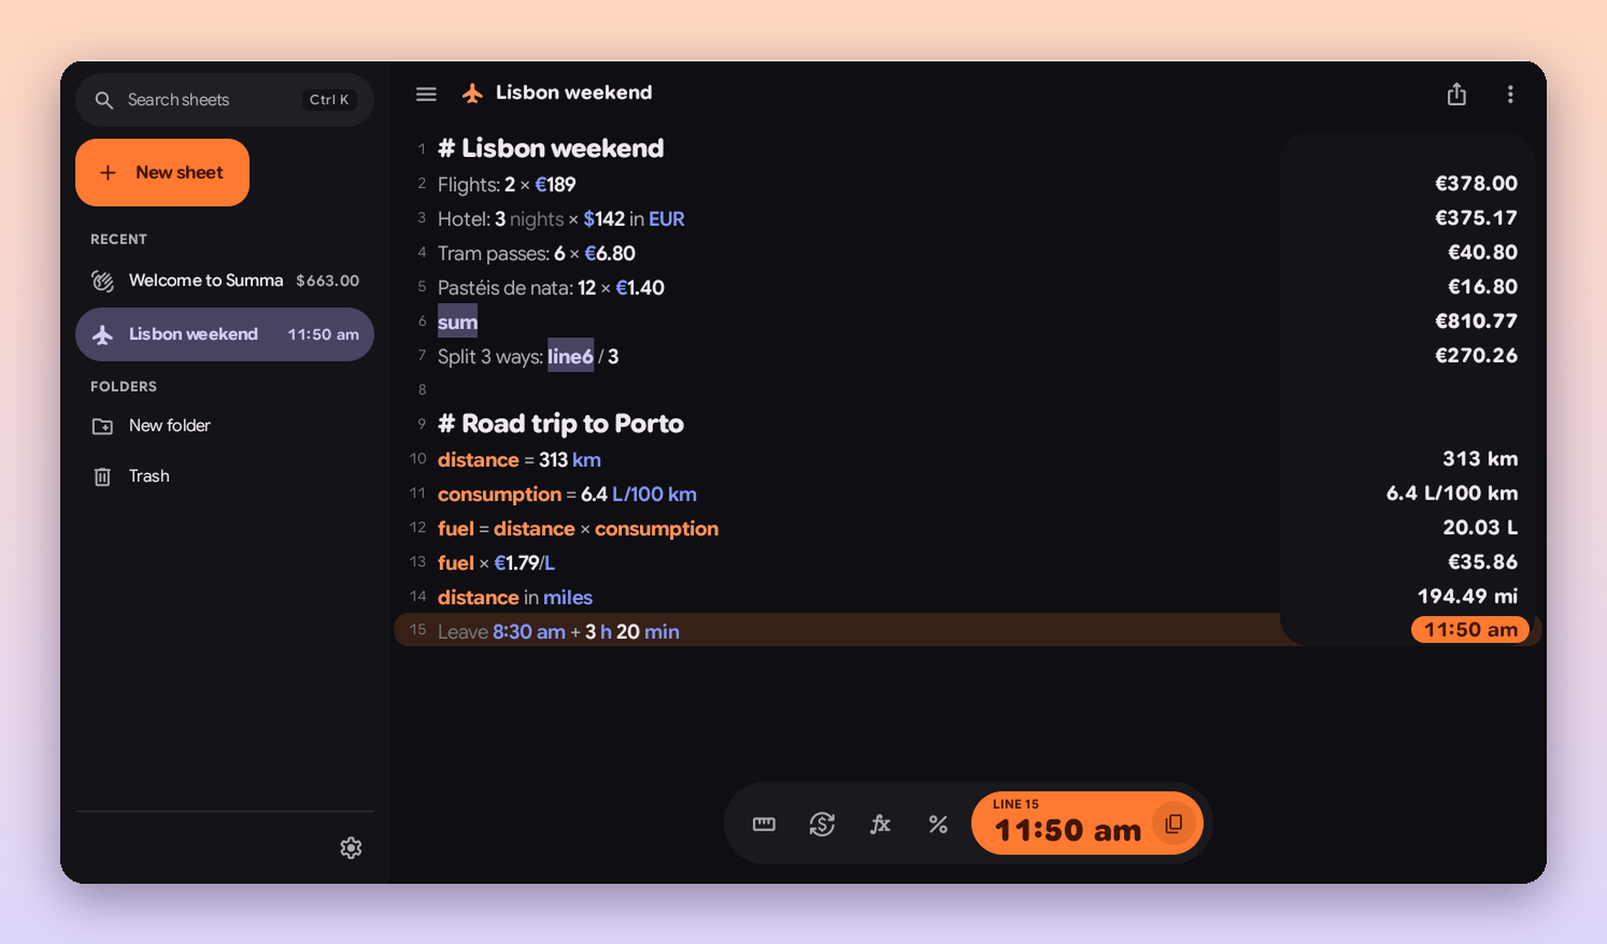
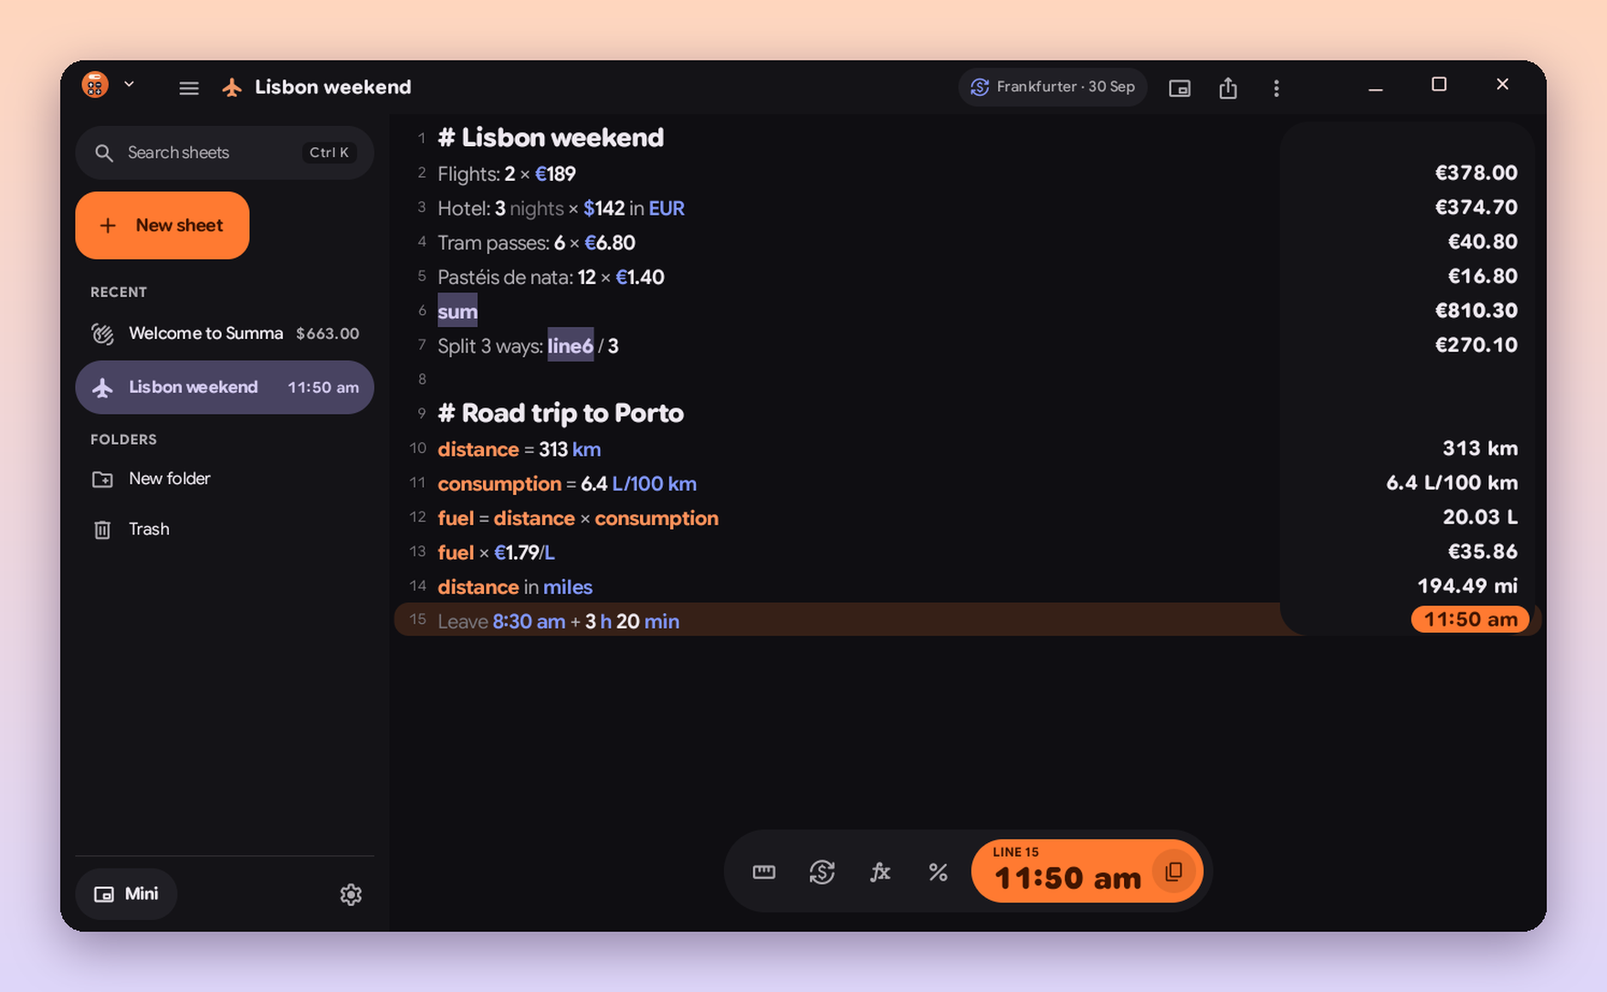
Summa 0.3: at home on the Googlebook
Caption-bar header that follows the system buttons across resizes, pinned
mini calculator, Calculate card, QS tile, launcher shortcuts, new windows,
drag-out answers, shortcut helper, phone keypad in its own row, Handoff.
Fixes answers keeping the old colour after a light/dark switch.

Claude-Session: https://claude.ai/code/session_01QrY79ELuyEqaLzb3gc6rtS

diff --git a/app/src/main/java/io/github/kuscher/summa/ui/MainActivity.kt b/app/src/main/java/io/github/kuscher/summa/ui/MainActivity.kt
@@ -119,11 +119,13 @@ import java.lang.ref.WeakReference
 class MainActivity : ComponentActivity() {
     /** The open sheet, for the debug hooks and window-level actions. */
     var session: Session? = null
+    lateinit var captionTracker: CaptionTracker
 
     override fun onCreate(savedInstanceState: Bundle?) {
         enableEdgeToEdge()
         super.onCreate(savedInstanceState)
         current = WeakReference(this)
+        captionTracker = CaptionTracker(this)
         val requested = sheetFromIntent(intent)
         if (Build.VERSION.SDK_INT >= 37) {
             try { setHandoffEnabled(true, HandoffActivityParams.Builder().build()) } catch (_: Throwable) {}
@@ -289,7 +291,7 @@ fun App(activity: MainActivity, requested: String?) {
                     },
             ) {
                 val wide = maxWidth >= 720.dp
-                val cap = rememberCaptionInsets()
+                val cap = rememberCaptionInsets(activity.captionTracker)
                 val meta = index.sheets.firstOrNull { it.id == id }
                 val sides = WindowInsets.safeDrawing.only(WindowInsetsSides.Horizontal + WindowInsetsSides.Bottom)
                 val topInsets = if (cap.present) WindowInsets(0) else WindowInsets.statusBars.union(WindowInsets.displayCutout).only(WindowInsetsSides.Top)
@@ -325,12 +327,15 @@ fun App(activity: MainActivity, requested: String?) {
                         BackHandler(enabled = !showList && screen == "sheet") { showList = true }
                         BackHandler(enabled = screen == "settings") { screen = "sheet" }
                         when {
-                            screen == "settings" -> SettingsScreen(onBack = { screen = "sheet" })
-                            showList || session == null -> LibraryScreen(app.library, index, id, search, searchFocus, ::open, ::newSheet, onSettings = { screen = "settings" })
+                            screen == "settings" -> Column { if (cap.present) Spacer(Modifier.height(cap.height)); SettingsScreen(onBack = { screen = "sheet" }) }
+                            showList || session == null -> Column { if (cap.present) Spacer(Modifier.height(cap.height)); LibraryScreen(app.library, index, id, search, searchFocus, ::open, ::newSheet, onSettings = { screen = "settings" }) }
                             else -> Column(Modifier.fillMaxSize()) {
-                                HeaderRow(cap, wideLayout = false) {
+                                // Narrow windows keep their header below the caption bar: the system's
+                                // own controls would leave no room for the title.
+                                if (cap.present) Spacer(Modifier.height(cap.height))
+                                HeaderRow(CaptionInsets(0.dp, 0.dp, 0.dp), wideLayout = false) {
                                     SheetHeader(session, meta, onBack = { showList = true }, onToggleSidebar = null, onSettings = { screen = "settings" },
-                                        onMessage = ::message, inCaption = cap.present, onNewWindow = null, onMini = null)
+                                        onMessage = ::message, inCaption = false, onNewWindow = null, onMini = null)
                                 }
                                 EditorPane(session, false, Modifier.weight(1f), onMessage = ::message)
                             }
@@ -395,11 +400,11 @@ fun RowScope.SheetHeader(
     }
     SymIcon(iconFor(meta?.title ?: ""), size = 19.sp, filled = true, tint = scheme.primary, modifier = Modifier.padding(start = 6.dp))
     Text(
-        meta?.title?.ifBlank { "Untitled" } ?: "Summa", Modifier.padding(start = 10.dp).weight(1f, fill = false),
+        meta?.title?.ifBlank { "Untitled" } ?: "Summa", Modifier.padding(start = 10.dp).weight(1f),
         style = MaterialTheme.typography.titleMedium.copy(fontWeight = FontWeight(700)), maxLines = 1, overflow = TextOverflow.Ellipsis,
     )
-    Spacer(Modifier.weight(1f))
     if (session == null) return
+    val narrow = onBack != null
     val ev = session.evaluated
     if (ev?.result?.anyRateDependent == true) {
         val r by app.rates.rates.collectAsState()
@@ -411,7 +416,7 @@ fun RowScope.SheetHeader(
             verticalAlignment = Alignment.CenterVertically,
         ) {
             SymIcon(Sym.CURRENCY_EXCHANGE, size = 16.sp, tint = scheme.tertiary)
-            Text("${if (r.source.contains("Central")) "ECB" else r.source.ifBlank { "Rates" }} · ${prettyDate(r.asOf)}",
+            if (!narrow) Text("${if (r.source.contains("Central")) "ECB" else r.source.ifBlank { "Rates" }} · ${prettyDate(r.asOf)}",
                 Modifier.padding(start = 6.dp), style = MaterialTheme.typography.labelMedium, color = scheme.onSurfaceVariant)
         }
     }
@@ -521,6 +526,7 @@ fun EditorPane(session: Session, wide: Boolean, modifier: Modifier, onMessage: (
     val b = lineOf(starts, if (sel.collapsed) sel.min else maxOf(sel.min, sel.max - 1))
     var statIdx by remember { mutableIntStateOf(0) }
     var keypad by rememberSaveable { mutableStateOf(false) }
+    DebugHooks.keypad = { keypad = !keypad }
     val ev = session.evaluated
     val display = run {
         if (ev == null) Display("Line ${a + 1}", null, false)
@@ -535,7 +541,7 @@ fun EditorPane(session: Session, wide: Boolean, modifier: Modifier, onMessage: (
         Box(Modifier.weight(1f).fillMaxWidth().let { if (keypad) it else it.imePadding() }) {
             SheetEditor(
                 session, settings, activeLine = a, scroll = scroll, compact = !wide || mini,
-                contentPadding = PaddingValues(top = 6.dp, bottom = if (mini) 76.dp else 120.dp),
+                contentPadding = PaddingValues(top = 6.dp, bottom = if (mini) 76.dp else if (keypad) 24.dp else 120.dp),
                 onInsert = { insertAtCursor(session, it) }, onMessage = onMessage, keypadOpen = keypad,
             )
             if (mini) {
@@ -544,13 +550,20 @@ fun EditorPane(session: Session, wide: Boolean, modifier: Modifier, onMessage: (
                     onCopy = { v -> copyToClipboard(app, v); onMessage("Copied $v") },
                     modifier = Modifier.align(Alignment.BottomEnd).padding(end = 10.dp, bottom = 12.dp),
                 )
-            } else {
+            } else if (!keypad) {
                 SheetToolbar(
                     display, onInsert = { insertAtCursor(session, it) }, onCycle = { statIdx++ }, onMessage = onMessage,
-                    keypadOpen = keypad, onKeypad = if (!wide) ({ keypad = !keypad }) else null,
+                    keypadOpen = keypad, onKeypad = if (!wide) ({ keypad = !keypad }) else null, compact = !wide,
                     modifier = Modifier.align(Alignment.BottomCenter).padding(bottom = 16.dp),
                 )
             }
+        }
+        // With the keypad open the toolbar gets its own row, so it never covers the line being typed.
+        if (keypad && !wide && !mini) Box(Modifier.fillMaxWidth().background(MaterialTheme.colorScheme.surfaceContainer).padding(top = 8.dp), contentAlignment = Alignment.Center) {
+            SheetToolbar(
+                display, onInsert = { insertAtCursor(session, it) }, onCycle = { statIdx++ }, onMessage = onMessage,
+                keypadOpen = true, onKeypad = { keypad = false }, compact = true,
+            )
         }
         if (keypad && !wide && !mini) Keypad(
             onText = { insertAtCursor(session, it) }, onBackspace = { backspace(session) },
@@ -590,4 +603,5 @@ object DebugHooks {
     var newSheet: () -> Unit = {}
     var screen: (String) -> Unit = {}
     var focus: () -> Unit = {}
+    var keypad: () -> Unit = {}
 }

diff --git a/app/src/main/java/io/github/kuscher/summa/ui/editor/Toolbar.kt b/app/src/main/java/io/github/kuscher/summa/ui/editor/Toolbar.kt
@@ -86,6 +86,7 @@ fun SheetToolbar(
     keypadOpen: Boolean,
     onKeypad: (() -> Unit)?,
     modifier: Modifier = Modifier,
+    compact: Boolean = false,
 ) {
     val context = LocalContext.current
     HorizontalFloatingToolbar(
@@ -94,7 +95,7 @@ fun SheetToolbar(
         colors = FloatingToolbarDefaults.standardFloatingToolbarColors(),
         contentPadding = FloatingToolbarDefaults.ContentPadding,
         trailingContent = {
-            DisplayPill(display, onCycle, onCopy = { v -> copyToClipboard(context, v); onMessage("Copied $v") })
+            DisplayPill(display, onCycle, onCopy = { v -> copyToClipboard(context, v); onMessage("Copied $v") }, big = !compact)
         },
     ) {
         if (onKeypad != null) ToolButton(Sym.DIALPAD, "Keypad", selected = keypadOpen, onClick = onKeypad)
@@ -107,7 +108,7 @@ fun SheetToolbar(
                 }
             }
         }
-        MenuButton(Sym.CURRENCY_EXCHANGE, "Insert a currency") { close ->
+        if (!compact) MenuButton(Sym.CURRENCY_EXCHANGE, "Insert a currency") { close ->
             for (cur in CURRENCIES) DropdownMenuItem(text = { Text(cur) }, onClick = { onInsert(cur); close() })
             DropdownMenuItem(text = { Text("in EUR") }, onClick = { onInsert(" in EUR"); close() })
             DropdownMenuItem(text = { Text("in USD") }, onClick = { onInsert(" in USD"); close() })
@@ -119,7 +120,7 @@ fun SheetToolbar(
                 onClick = { onInsert(f); close() },
             )
         }
-        ToolButton(Sym.PERCENT, "Percent") { onInsert("%") }
+        if (!compact) ToolButton(Sym.PERCENT, "Percent") { onInsert("%") }
     }
 }
 
@@ -178,9 +179,11 @@ fun DisplayPill(d: Display, onCycle: () -> Unit, onCopy: (String) -> Unit, modif
                     },
                     label = "display",
                 ) { v ->
-                    Text(
-                        v, maxLines = 1, overflow = TextOverflow.Ellipsis,
-                        style = TextStyle(fontFamily = SummaFonts.display, fontSize = if (big) 25.sp else 21.sp, fontWeight = FontWeight(820), fontFeatureSettings = "tnum"),
+                    // Long answers shrink to fit instead of being cut off.
+                    androidx.compose.foundation.text.BasicText(
+                        v, maxLines = 1,
+                        style = TextStyle(fontFamily = SummaFonts.display, fontWeight = FontWeight(820), fontFeatureSettings = "tnum", color = fg),
+                        autoSize = androidx.compose.foundation.text.TextAutoSize.StepBased(minFontSize = 13.sp, maxFontSize = if (big) 25.sp else 21.sp, stepSize = 1.sp),
                     )
                 }
             }

diff --git a/app/src/main/java/io/github/kuscher/summa/ui/Window.kt b/app/src/main/java/io/github/kuscher/summa/ui/Window.kt
@@ -39,19 +39,45 @@ data class CaptionInsets(val height: Dp, val start: Dp, val end: Dp) {
     val present: Boolean get() = height > 0.dp
 }
 
+/**
+ * Follows the caption bar's system-control rectangles through the window's own insets dispatch
+ * (so they're never stale after a resize). One per activity.
+ */
+class CaptionTracker(activity: Activity) {
+    /** Rectangles in window coordinates, and the window width they were measured against. */
+    val rects = androidx.compose.runtime.mutableStateOf<Pair<Int, List<android.graphics.Rect>>>(0 to emptyList())
+
+    init {
+        val decor = activity.window.decorView
+        decor.setOnApplyWindowInsetsListener { v, insets ->
+            if (Build.VERSION.SDK_INT >= 35) {
+                val r = insets.getBoundingRects(android.view.WindowInsets.Type.captionBar())
+                // The decor may not have its new size yet; measure against the insets' frame if we can.
+                v.post { rects.value = v.width to r }
+                rects.value = v.width to r
+            }
+            v.onApplyWindowInsets(insets)
+        }
+    }
+}
+
 @Composable
-fun rememberCaptionInsets(): CaptionInsets {
+fun rememberCaptionInsets(tracker: CaptionTracker? = null): CaptionInsets {
     val density = LocalDensity.current
     val top = WindowInsets.captionBar.getTop(density) // read so we recompose when it changes
+    val size = androidx.compose.ui.platform.LocalWindowInfo.current.containerSize
+    val tracked = tracker?.rects?.value
     if (top <= 0) return CaptionInsets(0.dp, 0.dp, 0.dp)
     val view = LocalView.current
-    val width = view.width
+    val width = if (size.width > 0) size.width else view.width
     var start = 0
     var end = 0
     if (Build.VERSION.SDK_INT >= 35) {
-        val rects = view.rootWindowInsets?.getBoundingRects(android.view.WindowInsets.Type.captionBar()).orEmpty()
+        val rects = tracked?.second ?: view.rootWindowInsets?.getBoundingRects(android.view.WindowInsets.Type.captionBar()).orEmpty()
         for (r in rects) {
-            if (r.left < width / 2) start = maxOf(start, r.right) else end = maxOf(end, width - r.left)
+            // Rectangles hug the left (app handle) or the right edge (window buttons).
+            val fromRight = width - r.left
+            if (r.left < width - r.right) start = maxOf(start, r.right) else end = maxOf(end, fromRight)
         }
     }
     return with(density) { CaptionInsets(top.toDp(), start.toDp(), end.toDp()) }

diff --git a/app/src/main/java/io/github/kuscher/summa/ui/MiniActivity.kt b/app/src/main/java/io/github/kuscher/summa/ui/MiniActivity.kt
@@ -65,11 +65,13 @@ class MiniActivity : ComponentActivity() {
     private var pinned by mutableStateOf(false)
     private var autoPinTried = false
     private var onMessage: (String) -> Unit = {}
+    private lateinit var captionTracker: CaptionTracker
 
     override fun onCreate(savedInstanceState: Bundle?) {
         enableEdgeToEdge()
         super.onCreate(savedInstanceState)
         instance = java.lang.ref.WeakReference(this)
+        captionTracker = CaptionTracker(this)
         val app = SummaApp.instance
         app.library.scratch()
         setContent {
@@ -86,7 +88,7 @@ class MiniActivity : ComponentActivity() {
                 Surface(color = MaterialTheme.colorScheme.surface) {
                     Box(Modifier.fillMaxSize().windowInsetsPadding(WindowInsets.safeDrawing.only(WindowInsetsSides.Horizontal + WindowInsetsSides.Bottom))) {
                         Column(Modifier.fillMaxSize()) {
-                            val cap = rememberCaptionInsets()
+                            val cap = rememberCaptionInsets(captionTracker)
                             HeaderRow(cap, wideLayout = true) {
                                 Row(Modifier.padding(start = 4.dp), verticalAlignment = Alignment.CenterVertically) {
                                     SymIcon(Sym.CALCULATE, size = 19.sp, filled = true, tint = MaterialTheme.colorScheme.primary)

diff --git a/app/src/main/java/io/github/kuscher/summa/ui/editor/SheetEditor.kt b/app/src/main/java/io/github/kuscher/summa/ui/editor/SheetEditor.kt
@@ -400,13 +400,15 @@ private fun Answer(
     val fg = if (active) scheme.onPrimaryContainer else scheme.onSurface
     val scale by animateFloatAsState(if (active) 1f else 1f, label = "s")
     Box(modifier.padding(end = 4.dp), contentAlignment = Alignment.CenterEnd) {
+        androidx.compose.runtime.key(fg, scheme.primaryContainer) {
         Box(
             Modifier
                 .clip(RoundedCornerShape(50))
                 .background(bg)
                 .hoverable(hover)
                 .onSecondaryClick { menu = true }
-                // Drag an answer into another app or window.
+                // Drag an answer into another app or window. (Keyed on the colours below so the
+                // drag node's cached drawing follows theme changes.)
                 .dragAndDropSource { _ ->
                     androidx.compose.ui.draganddrop.DragAndDropTransferData(
                         android.content.ClipData.newPlainText("Summa answer", answer),
@@ -427,6 +429,7 @@ private fun Answer(
                     fontFeatureSettings = "tnum" + if (settings.slashedZero) ", zero" else "", color = fg,
                 ),
             )
+        }
         }
         DropdownMenu(expanded = menu, onDismissRequest = { menu = false }, shape = RoundedCornerShape(18.dp)) {
             DropdownMenuItem(

diff --git a/app/src/main/java/io/github/kuscher/summa/DebugReceiver.kt b/app/src/main/java/io/github/kuscher/summa/DebugReceiver.kt
@@ -37,6 +37,7 @@ class DebugReceiver : BroadcastReceiver() {
             "delete" -> { app.library.deleteForever(arg); out("ok") }
             "screen" -> main.post { DebugHooks.screen(arg); out("ok") }
             "focus" -> main.post { DebugHooks.focus(); out("ok") }
+            "keypad" -> main.post { DebugHooks.keypad(); out("ok") }
             "mini" -> main.post { io.github.kuscher.summa.ui.MainActivity.openMini(act ?: context.applicationContext); out("ok") }
             "closemini" -> main.post { io.github.kuscher.summa.ui.MiniActivity.instance.get()?.finishAndRemoveTask(); out("ok") }
             "text" -> main.post {

diff --git a/README.md b/README.md
@@ -57,6 +57,30 @@ names (Tab to insert), keyboard shortcuts, right-click menus (copy, convert to a
 reference) and a floating toolbar with a **display** that shows the current line's answer, or the sum of the lines
 you select.
 
+## Made for the Googlebook
+
+<p align="center">
+  <img src="docs/images/dark.png" width="760" alt="Summa in dark mode, with its header drawn into the window's title bar next to the window buttons">
+  <br><sub>The sheet's title, the exchange-rate chip and the actions sit in the window's own title bar.</sub>
+</p>
+
+- **Lives in the title bar.** The sheet title and actions sit in the window's caption, next to
+  the system's window buttons; the empty space still drags the window.
+- **A mini calculator that stays on top.** Open it from the Quick Settings tile, the launcher,
+  the header or Ctrl+Shift+M. It keeps one scratch sheet and, on Android 17 desktops, stays above
+  your other windows (turn that off in Settings).
+- **"Calculate" in every app.** Select `€49 in USD` in Chrome or any app, right-click › Calculate,
+  and a small card shows the answer with Copy, Insert answer and Open in Summa.
+- **A window per sheet.** Right-click a sheet › Open in new window, or use the taskbar's New window.
+- **Drag answers** into Docs, Gmail or another sheet. Share text to Summa to start a sheet.
+- **Keyboard first**, with every shortcut listed in the system's shortcut helper (Search+/).
+- **Handoff:** start a sheet on your phone and carry on at the Googlebook (Android 17).
+
+<p align="center">
+  <img src="docs/images/phone.png" width="300" alt="Summa on a phone-sized window with its keypad: rounded number keys, operators and a cookie-shaped return key">
+  <br><sub>On phones: an Expressive keypad whose keys squash into rounded squares as you press them.</sub>
+</p>
+
 ## What you can type
 
 | You type | Summa answers |
@@ -92,7 +116,10 @@ To update, install a newer `Summa.apk` over the old one. Your sheets stay.
 
 | Keys | Does |
 |---|---|
+| Search+/ | See every shortcut (the system's shortcut helper) |
 | Ctrl+N | New sheet |
+| Ctrl+Shift+N | New window |
+| Ctrl+Shift+M | Mini calculator |
 | Ctrl+K | Search sheets |
 | Ctrl+Shift+C | Copy the current line's answer |
 | Ctrl+/ | Turn lines into notes (and back) |
@@ -101,6 +128,7 @@ To update, install a newer `Summa.apk` over the old one. Your sheets stay.
 | Ctrl+\ | Insert `prev` (the answer above) |
 | Ctrl+B | Show or hide the sheet list |
 | Ctrl+, | Settings |
+| Tab / Esc | Insert or hide an autocomplete suggestion |
 
 ## Privacy
 

diff --git a/docs/release-notes/0.3.md b/docs/release-notes/0.3.md
@@ -1,0 +1,19 @@
+Summa 0.3 makes Summa feel at home on a Googlebook: a title-bar header, a mini calculator that stays on top, and “Calculate” in every app.
+
+**Install or update:** download `Summa.apk` below and open it; your sheets stay. Checksums are in `SHA256SUMS`.
+
+- **Title-bar header:** the sheet title, rates chip and actions draw into the window's caption bar,
+  clear of the system's window buttons (and they follow the buttons when you resize).
+- **Mini calculator** with its own scratch sheet. On Android 17 desktops it stays on top of other
+  windows (pin button; on by default, Settings › Mini calculator). Opens from a new **Quick Settings
+  tile**, the launcher, the header or **Ctrl+Shift+M**.
+- **"Calculate"** in every app's text-selection menu: a card with the answer, Copy, Insert answer
+  and Open in Summa.
+- **Open in new window** for any sheet, and the taskbar's New window (Ctrl+Shift+N).
+- **Launcher shortcuts:** New sheet, Mini calculator. **Share text** to Summa to start a sheet.
+- **Drag answers** out into other apps.
+- **Shortcut helper:** Summa's shortcuts appear in the system's list (Search+/).
+- **Phone keypad** in Material 3 Expressive: keys that squash as you press them, a row of units and
+  words, and a cookie-shaped return key.
+- **Handoff** of the open sheet between devices (Android 17).
+- Fixed: answers kept the old colour after switching between light and dark.

diff --git a/CHANGELOG.md b/CHANGELOG.md
@@ -1,5 +1,25 @@
 # Changelog
 
+## 0.3 (2026-09-30)
+
+At home on the Googlebook.
+
+- **Title-bar header:** the sheet title, rates chip and actions draw into the window's caption bar,
+  clear of the system's window buttons (and they follow the buttons when you resize).
+- **Mini calculator** with its own scratch sheet. On Android 17 desktops it stays on top of other
+  windows (pin button; on by default, Settings › Mini calculator). Opens from a new **Quick Settings
+  tile**, the launcher, the header or **Ctrl+Shift+M**.
+- **"Calculate"** in every app's text-selection menu: a card with the answer, Copy, Insert answer
+  and Open in Summa.
+- **Open in new window** for any sheet, and the taskbar's New window (Ctrl+Shift+N).
+- **Launcher shortcuts:** New sheet, Mini calculator. **Share text** to Summa to start a sheet.
+- **Drag answers** out into other apps.
+- **Shortcut helper:** Summa's shortcuts appear in the system's list (Search+/).
+- **Phone keypad** in Material 3 Expressive: keys that squash as you press them, a row of units and
+  words, and a cookie-shaped return key.
+- **Handoff** of the open sheet between devices (Android 17).
+- Fixed: answers kept the old colour after switching between light and dark.
+
 ## 0.2 (2026-09-30)
 
 Units, money and time.

diff --git a/CLAUDE.md b/CLAUDE.md
@@ -43,3 +43,12 @@ Android 12+. Plain APK, Kotlin + Jetpack Compose, Material 3 Expressive (materia
 - In composables, no early `return@Box` from content lambdas (Compose start/end imbalance crash).
 - Text needs a `Surface` above it for the right content colour in dark mode.
 - The Google Sans fonts are renamed "Summa Sans/Mono" when subset (Google's trademark notes).
+- Desktop mode (Googlebook OS) ignores `<layout>` default sizes and `ActivityOptions.setLaunchBounds`:
+  new windows get the shell's standard size (AOSP `DesktopModeUtils.calculateInitialBounds`).
+- Caption bar: `CaptionTracker` follows `getBoundingRects(captionBar)` through the decor's insets
+  listener; reading `rootWindowInsets` during composition is stale after a resize. Buttons in the
+  caption need `Modifier.systemGestureExclusion()` or the system treats clicks as window drags.
+- `Modifier.dragAndDropSource` caches its content's drawing: key the node on its colours or theme
+  switches won't repaint it.
+- Pinned mini window: `AppTask.requestWindowingLayer(PINNED)` works on the HP (logcat shows
+  `windowingLayer = 2`, `isPinned=true`); only from a focused freeform task.

diff --git a/docs/PICKING-UP.md b/docs/PICKING-UP.md
@@ -10,6 +10,6 @@ State and next steps, for whoever continues (human or Claude). Keep this current
 ## Next (plan: https://claude.ai/artifact/SGXCvaPbcSA7n6digX4Hsy)
 - v0.2: live rates (Frankfurter → ECB fallback, CoinGecko crypto opt-in), GeoNames cities, autocomplete,
   convert-to menu on answers, more units/phrases.
-- v0.3: pinned mini window (`AppTask.requestWindowingLayer`), QS tile, PROCESS_TEXT "Calculate",
-  caption-bar integration, multi-window, drag and drop, shortcut helper, phone keypad, Handoff.
+- v0.3 done: caption header, pinned mini window (desktop mode ignores launch bounds, so it opens at the system size), Calculate, tile, shortcuts, keypad, Handoff.
+
 - v1.0: finance/VAT/workdays, definitions sheet, CSV/PDF/HTML export, a11y audit, README screenshots.
